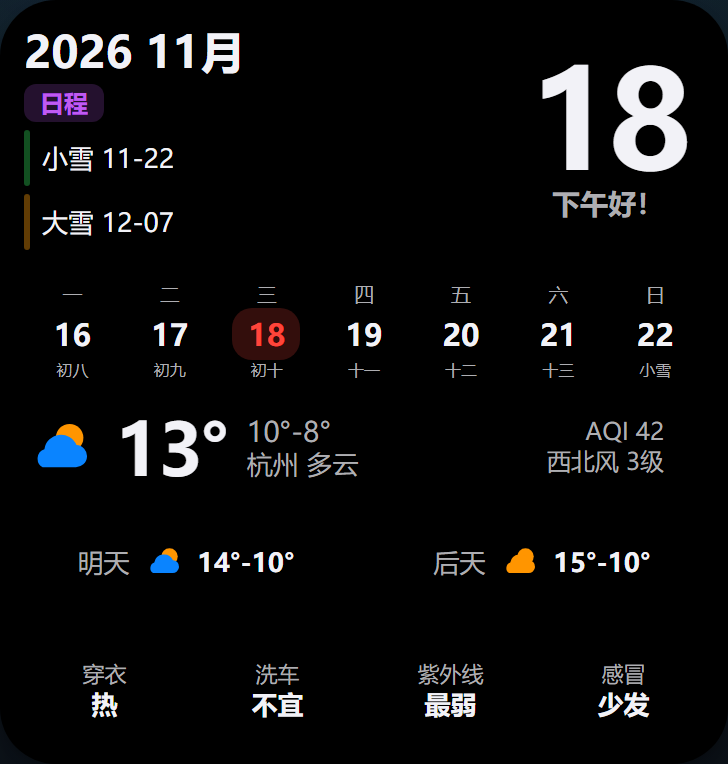
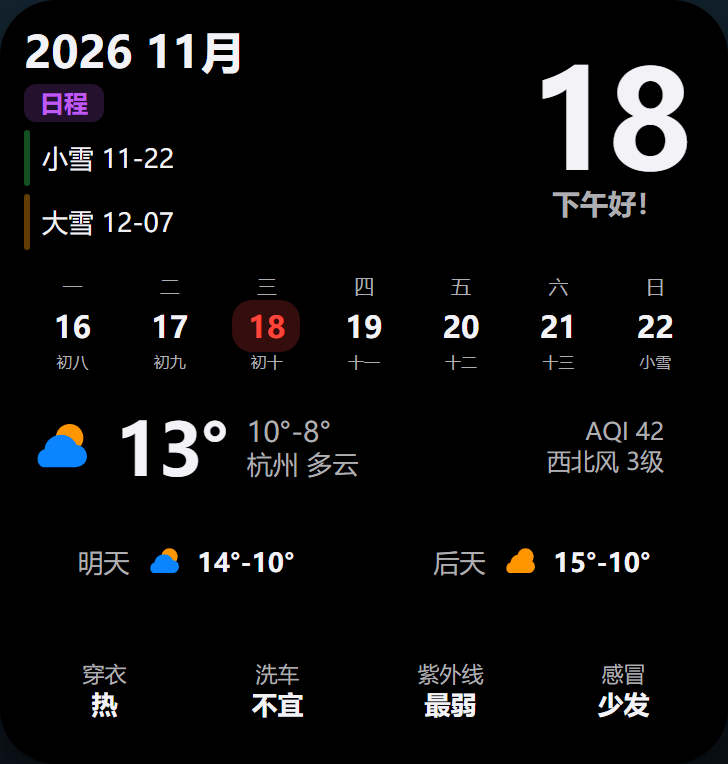
Equalize calendar spacing above and below

diff --git a/widget.tsx b/widget.tsx
@@ -892,7 +892,7 @@ function WeekStrip({ date }: { date: Date }) {
   monday.setDate(date.getDate() - ((date.getDay() + 6) % 7))
 
   return (
-    <HStack spacing={0} padding={{ top: 10, bottom: 2 }}>
+    <HStack spacing={0} padding={{ vertical: 6 }}>
       {labels.map((label, index) => {
         const day = new Date(monday)
         day.setDate(monday.getDate() + index)
